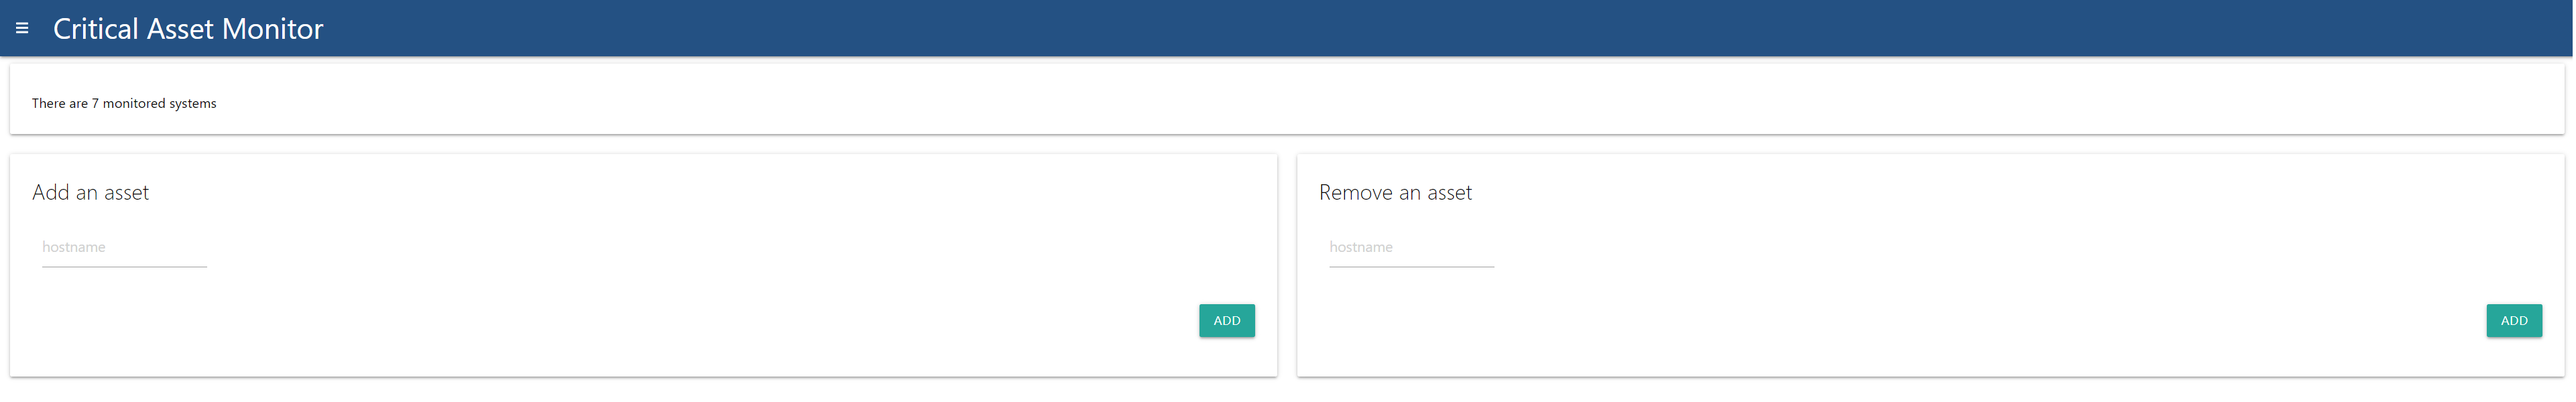
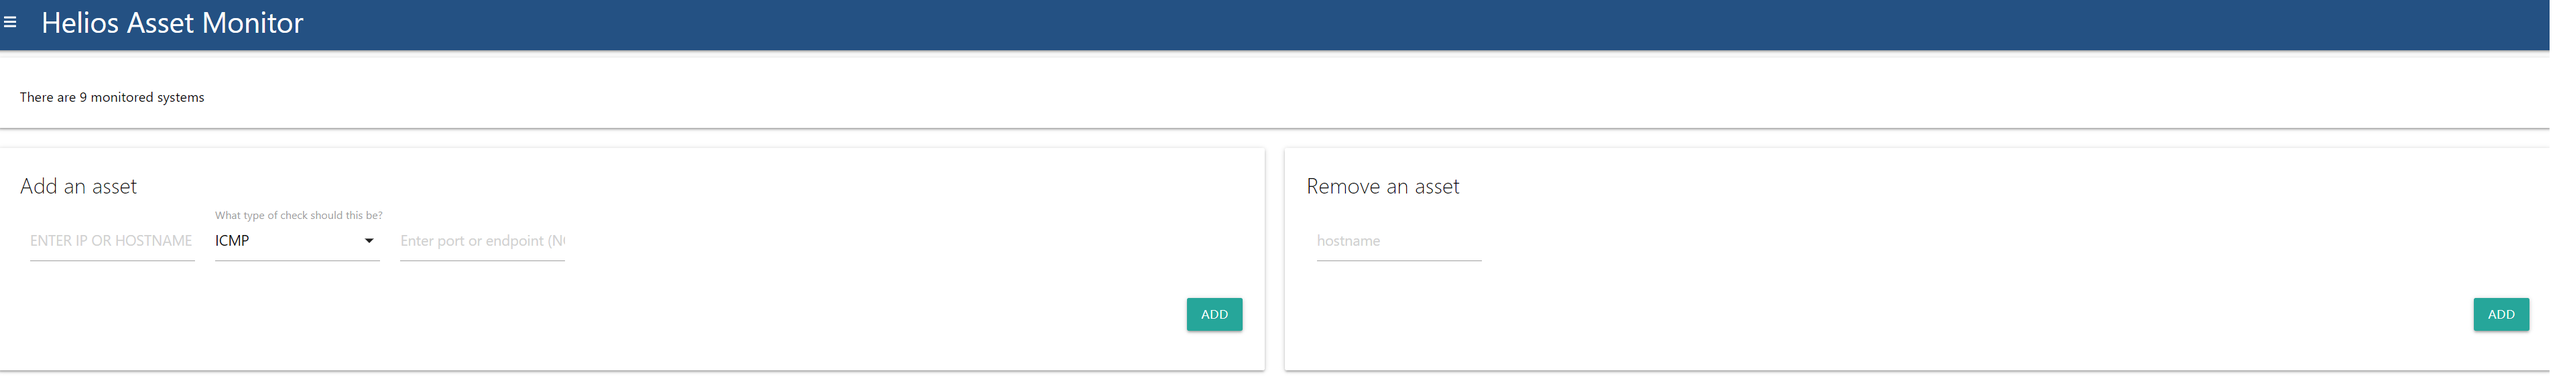
new screenshot and README updated

diff --git a/README.md b/README.md
@@ -1,14 +1,25 @@
-# PROJECT Helios
+# Project Helios
 *Still under development, probably not safe for production. Use at your own risk*
 
 Project Helios is an uptime monitoring system meant to be easily deployable, simple to use, and easy to customize.
 
-There are two components, the helios.ps1 file which is the webserver utilizing PowerShell UniversalDashboard and then helios-monitor.ps1 which is a background task which checks on the status of endpoints.
+There are three components, the helios.ps1 file which is the webserver utilizing PowerShell UniversalDashboard, the SQL Express backend server to store data, and the helios-monitor.ps1 which is a background task which checks on the status of endpoints.
 
-Right now it is only testing for ICMP connectivity but shortly there will be a feature added to tell it to monitor for different types of uptime - HTTP 200s, TCP port connectivity, or API repsponses
+Right now it is only testing for ICMP and TCP connectivity but shortly there will be features to monitor HTTP and API responses
 
 ## Main page looks like the following and is auto refreshed every 10 seconds
 ![monitor homepage](https://raw.githubusercontent.com/theabraxas/Project-Helios/master/docs/images/monitor.png)
 
 ## Asset Manager looks like the following and allows control of what assets are being tested/managed
 ![monitor homepage](https://raw.githubusercontent.com/theabraxas/Project-Helios/master/docs/images/manager.png)
+
+## Getting Started
+1) Install SQL Express
+
+2) Run the database creation commands from the top commented out portions of helios.ps1
+
+3) Launch helios.ps1
+
+4) Launch helios-monitor.ps1 to start recording data
+
+5) Go to the 'Asset Manager' page in Helios to add hosts to monitor
